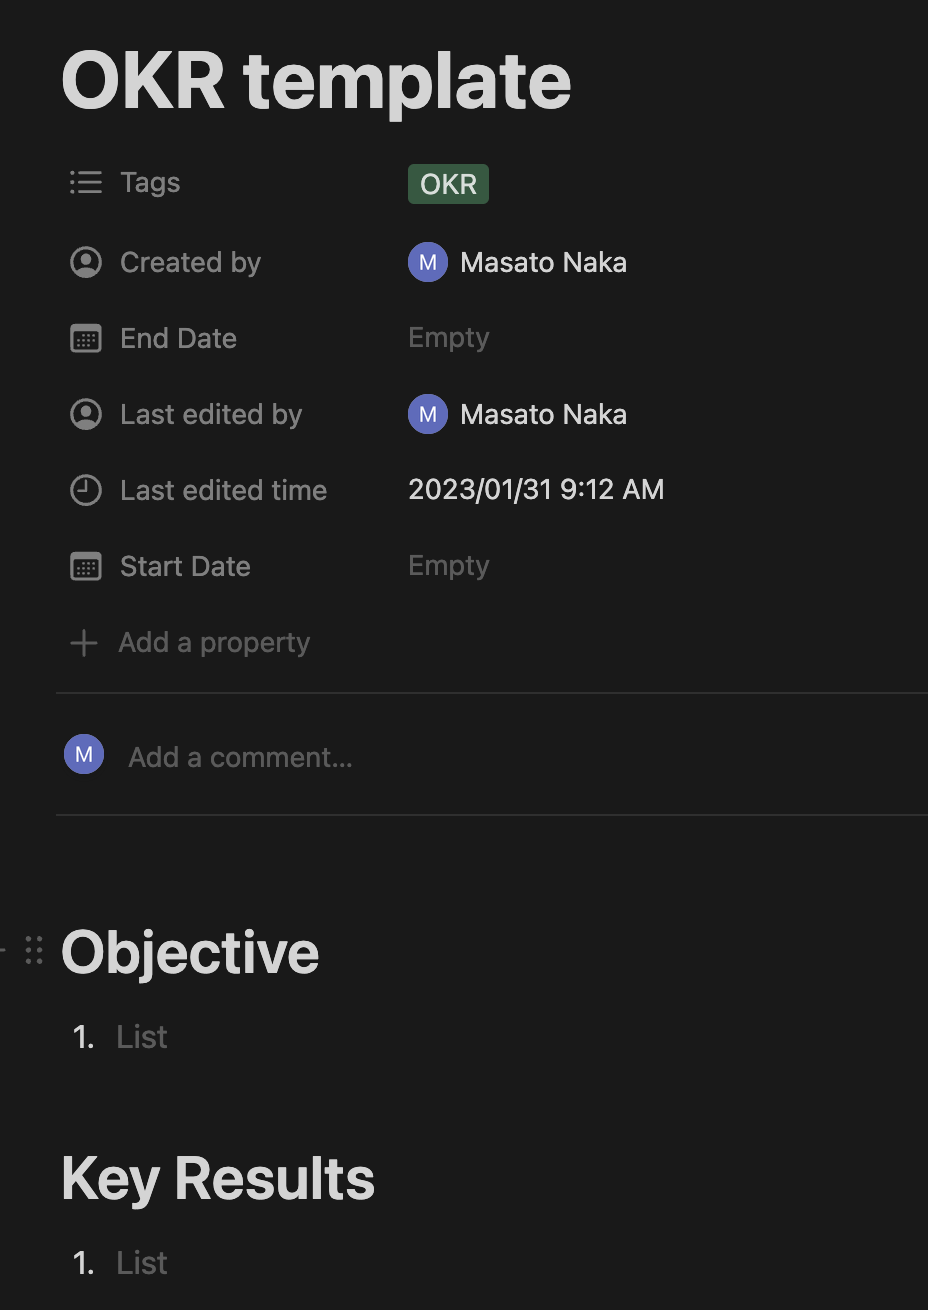
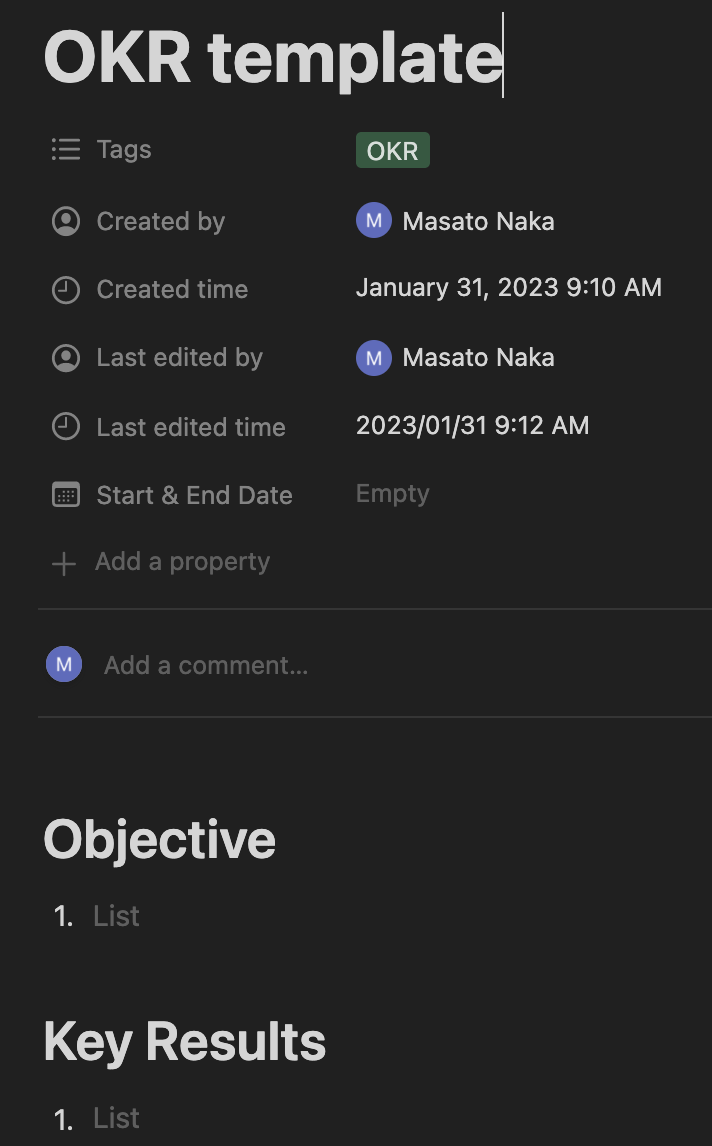
feat: enable to create a notion page from a template with dynamic values (#20)

diff --git a/tests/test_notion.py b/tests/test_notion.py
@@ -22,7 +22,7 @@ def test_notion_page_simple_database():
     ]
 
 
-def test_notion_page_with_properties():
+def test_notion_page_with_properties_tag():
     properties = {
         "Tags": {
             "id": "FQLU",
@@ -40,13 +40,92 @@ def test_notion_page_with_properties():
     page.update_properties(properties=properties)
     assert page.properties == {
         "title": [{"type": "text", "text": {"content": "test title"}}],
-        "Tags": [{"name": "OKR"}],
+        "Tags": [
+            {
+                "id": "f385f958-c732-4b78-986b-4ec5146c0fa6",
+                "name": "OKR",
+                "color": "green",
+            }
+        ],
     }
 
     page = NotionPage(title="test title", body="test body", properties=properties)
     assert page.properties == {
         "title": [{"type": "text", "text": {"content": "test title"}}],
-        "Tags": [{"name": "OKR"}],
+        "Tags": [
+            {
+                "id": "f385f958-c732-4b78-986b-4ec5146c0fa6",
+                "name": "OKR",
+                "color": "green",
+            }
+        ],
+    }
+
+
+def test_notion_page_with_properties_date():
+    properties = {
+        "Start Date": {
+            "id": "k%3A%7Bd",
+            "type": "date",
+            "date": {"start": "2023-02-04", "end": "2023-02-10", "time_zone": None},
+        }
+    }
+    page = NotionPage(title="test title", body="test body")
+    page.update_properties(properties=properties)
+    assert page.properties == {
+        "title": [{"type": "text", "text": {"content": "test title"}}],
+        "Start Date": {"start": "2023-02-04", "end": "2023-02-10", "time_zone": None},
+    }
+
+    page = NotionPage(title="test title", body="test body", properties=properties)
+    assert page.properties == {
+        "title": [{"type": "text", "text": {"content": "test title"}}],
+        "Start Date": {"start": "2023-02-04", "end": "2023-02-10", "time_zone": None},
+    }
+
+
+def test_notion_page_with_properties_select():
+    properties = {
+        "Size": {
+            "id": "qyqF",
+            "type": "select",
+            "select": {
+                "id": "59a6cc39-cbe3-4cac-a013-6928a3b0705b",
+                "name": "small",
+                "color": "pink",
+            },
+        }
+    }
+    page = NotionPage(title="test title", body="test body", properties=properties)
+    assert page.properties == {
+        "title": [{"type": "text", "text": {"content": "test title"}}],
+        "Size": {
+            "id": "59a6cc39-cbe3-4cac-a013-6928a3b0705b",
+            "name": "small",
+            "color": "pink",
+        },
+    }
+
+
+def test_notion_page_with_properties_empty():
+    properties = {
+        "Start Date": {
+            "id": "k%3A%7Bd",
+            "type": "date",
+            "date": None,
+        }
+    }
+    page = NotionPage(title="test title", body="test body")
+    page.update_properties(properties=properties)
+    assert page.properties == {
+        "title": [{"type": "text", "text": {"content": "test title"}}],
+        "Start Date": None,
+    }
+
+    page = NotionPage(title="test title", body="test body", properties=properties)
+    assert page.properties == {
+        "title": [{"type": "text", "text": {"content": "test title"}}],
+        "Start Date": None,
     }
 
 
@@ -68,3 +147,41 @@ def test_notion_page_cannot_update_title():
     assert page.properties["title"] == [
         {"type": "text", "text": {"content": "test title"}}
     ]
+
+
+def test_notion_page_update_template_property_with_value_date():
+    properties = {
+        "Start Date": {
+            "id": "k%3A%7Bd",
+            "type": "date",
+            "date": {"start": None, "end": None, "time_zone": None},
+        }
+    }
+    kwargs = {"Start Date": {"start": "2023-02-04", "end": "2023-02-10"}}
+    page = NotionPage(title="test", body="test", properties=properties, **kwargs)
+    assert page.properties["Start Date"] == {
+        "start": "2023-02-04",
+        "end": "2023-02-10",
+        "time_zone": None,
+    }
+
+
+def test_notion_page_update_none_template_property_with_value_date():
+    properties = {
+        "Start Date": {
+            "id": "k%3A%7Bd",
+            "type": "date",
+            "date": None,
+        }
+    }
+    kwargs = {"Start Date": {"start": "2023-02-04", "end": "2023-02-10"}}
+    page = NotionPage(title="test", body="test", properties=properties, **kwargs)
+    assert page.properties["Start Date"] == {"start": "2023-02-04", "end": "2023-02-10"}
+
+
+def test_notion_page_update_template_property_with_nonexisting_value():
+    kwargs = {"nonexisting key": {"start": "2023-02-04", "end": "2023-02-10"}}
+    page = NotionPage(title="test title", body="test", **kwargs)
+    assert page.properties == {
+        "title": [{"type": "text", "text": {"content": "test title"}}],
+    }

diff --git a/src/autonote/notion.py b/src/autonote/notion.py
@@ -11,7 +11,9 @@ class NotionMock:
 
 
 class NotionPage:
-    def __init__(self, title, body=None, contents=None, properties=None) -> None:
+    def __init__(
+        self, title, body=None, contents=None, properties=None, **kwargs
+    ) -> None:
         """ """
         self.title = title
         self.body = body
@@ -35,7 +37,7 @@ class NotionPage:
             ]
         }
         if properties is not None:
-            self.update_properties(properties)
+            self.update_properties(properties, **kwargs)
 
     def page_content(self, parent_page_id: str) -> dict:
         """Generate a page content.
@@ -59,7 +61,7 @@ class NotionPage:
             "contents": self.contents,
         }
 
-    def update_properties(self, properties: dict) -> None:
+    def update_properties(self, properties: dict, **kwargs) -> None:
         """Update properties
         Example properties obtain from database page:
         {'Start Date': {'id': '%3CAfZ', 'type': 'date', 'date': None},
@@ -75,15 +77,33 @@ class NotionPage:
             }
         """
         for k, v in properties.items():
-            # skip empty property and title
-            if v[v["type"]] is None or v["type"] == "title":
+            # skip title
+            if v["type"] == "title":
                 continue
-            if v["type"] in {"created_by", "last_edited_by", "last_edited_time"}:
+            elif v["type"] in {
+                "created_by",
+                "last_edited_by",
+                "last_edited_time",
+                "created_time",
+            }:
                 continue
-            if v["type"] == "multi_select":
-                self.properties[k] = [{"name": e["name"]} for e in v["multi_select"]]
             else:
-                self.properties[v["id"]] = v[v["type"]]
+                # TODO: this might not work for some data type.
+                self.properties[k] = v[v["type"]]
+                print(f"update property {k}: {v[v['type']]}")
+
+        # update value from kwargs
+        for k, v in kwargs.items():
+            if k in self.properties:
+                if self.properties[k] is None:
+                    self.properties[k] = v
+                else:
+                    self.properties[k].update(v)
+                print(
+                    f"update property with value ({v}). new: {k}: {self.properties[k]}"
+                )
+            else:
+                print(f"{k} is not in properties")
 
     def update_contents(self, contents: dict) -> None:
         self.contents = [
@@ -121,9 +141,10 @@ class NotionClient:
         self.update_contents(page_id=page_id, contents=kwargs["contents"])
         return {"id": res["id"]}
 
-    def create_page_from_template(self, template_id, title, override=False):
+    def create_page_from_template(self, template_id, title, override=False, **kwargs):
         """Create a new page from the given template_id.
         if override is True and there's a page with the same title, update the existing page.
+        You can pass values of properties via kwargs
         """
 
         # Prepare contents from template
@@ -140,8 +161,9 @@ class NotionClient:
             title=title,
             contents=blk["results"],
             properties=tpl["properties"],
+            **kwargs,  # update properties
         )
-        kwargs = notion_page.database_content(parent_database_id=database_id)
+        contents_kwargs = notion_page.database_content(parent_database_id=database_id)
 
         # Create or update a page
         res = self.get_database(
@@ -150,15 +172,17 @@ class NotionClient:
         )
         if len(res["results"]) == 0 or override is False:
             print(f"create a new page under database_id: {database_id}")
-            res = self.client.pages.create(**kwargs)  # create an empty page
+            res = self.client.pages.create(**contents_kwargs)  # create an empty page
             page_id = res["id"]
         else:
             page_id = res["results"][0]["id"]
             print(f"page with title '{title}' already exists (id: {page_id})")
-            res = self.client.pages.update(page_id, **kwargs)  # only update properties
+            res = self.client.pages.update(
+                page_id, **contents_kwargs
+            )  # only update properties
 
         # update contents
-        self.update_contents(page_id=page_id, contents=kwargs["contents"])
+        self.update_contents(page_id=page_id, contents=contents_kwargs["contents"])
 
         return res
 

diff --git a/examples/create_notion_page_from_template_with_value.py b/examples/create_notion_page_from_template_with_value.py
@@ -1,0 +1,11 @@
+from autonote.notion import NotionClient
+
+client = NotionClient()
+
+kwargs = {"Start & End Date": {"start": "2023-01-01", "end": "2023-03-31"}}
+client.create_page_from_template(
+    template_id="ffbf0ff4a80047fa84fa741ad8bcfbe9",
+    title="OKR 2023Q1",
+    override=True,
+    **kwargs
+)

diff --git a/examples/create_notion_page.py b/examples/create_notion_page.py
@@ -1,0 +1,9 @@
+from autonote.notion import NotionClient
+
+client = NotionClient()
+client.create_page(
+    parent_page_id="5d98fac8f41d4801b3c337be70dabba1",
+    title="title",
+    body="body",
+    override=True,
+)

diff --git a/examples/create_notion_page_from_template.py b/examples/create_notion_page_from_template.py
@@ -1,0 +1,9 @@
+from autonote.notion import NotionClient
+
+client = NotionClient()
+
+client.create_page_from_template(
+    template_id="ffbf0ff4a80047fa84fa741ad8bcfbe9",
+    title="OKR 2023Q1",
+    override=True,
+)

diff --git a/README.md b/README.md
@@ -112,6 +112,25 @@ Generated page:
 <img src="docs/notion_page_1.png" width="200px" />
 </td></tr></table>
 
+### 2.3. Create Notion page from a template with dynamic values
+
+```python
+from autonote.notion import NotionClient
+
+client = NotionClient()
+kwargs={"Date": {"start": "2023-01-01", "end": "2023-03-31"}}
+client.create_page_from_template(
+    template_id="<template_id>",
+    title="OKR 2023Q1",
+    override=True,
+    **kwargs
+)
+```
+
+<table><tr><td>
+<img src="docs/notion_page_2.png" width="200px" />
+</td></tr></table>
+
 
 ## Credits
 
